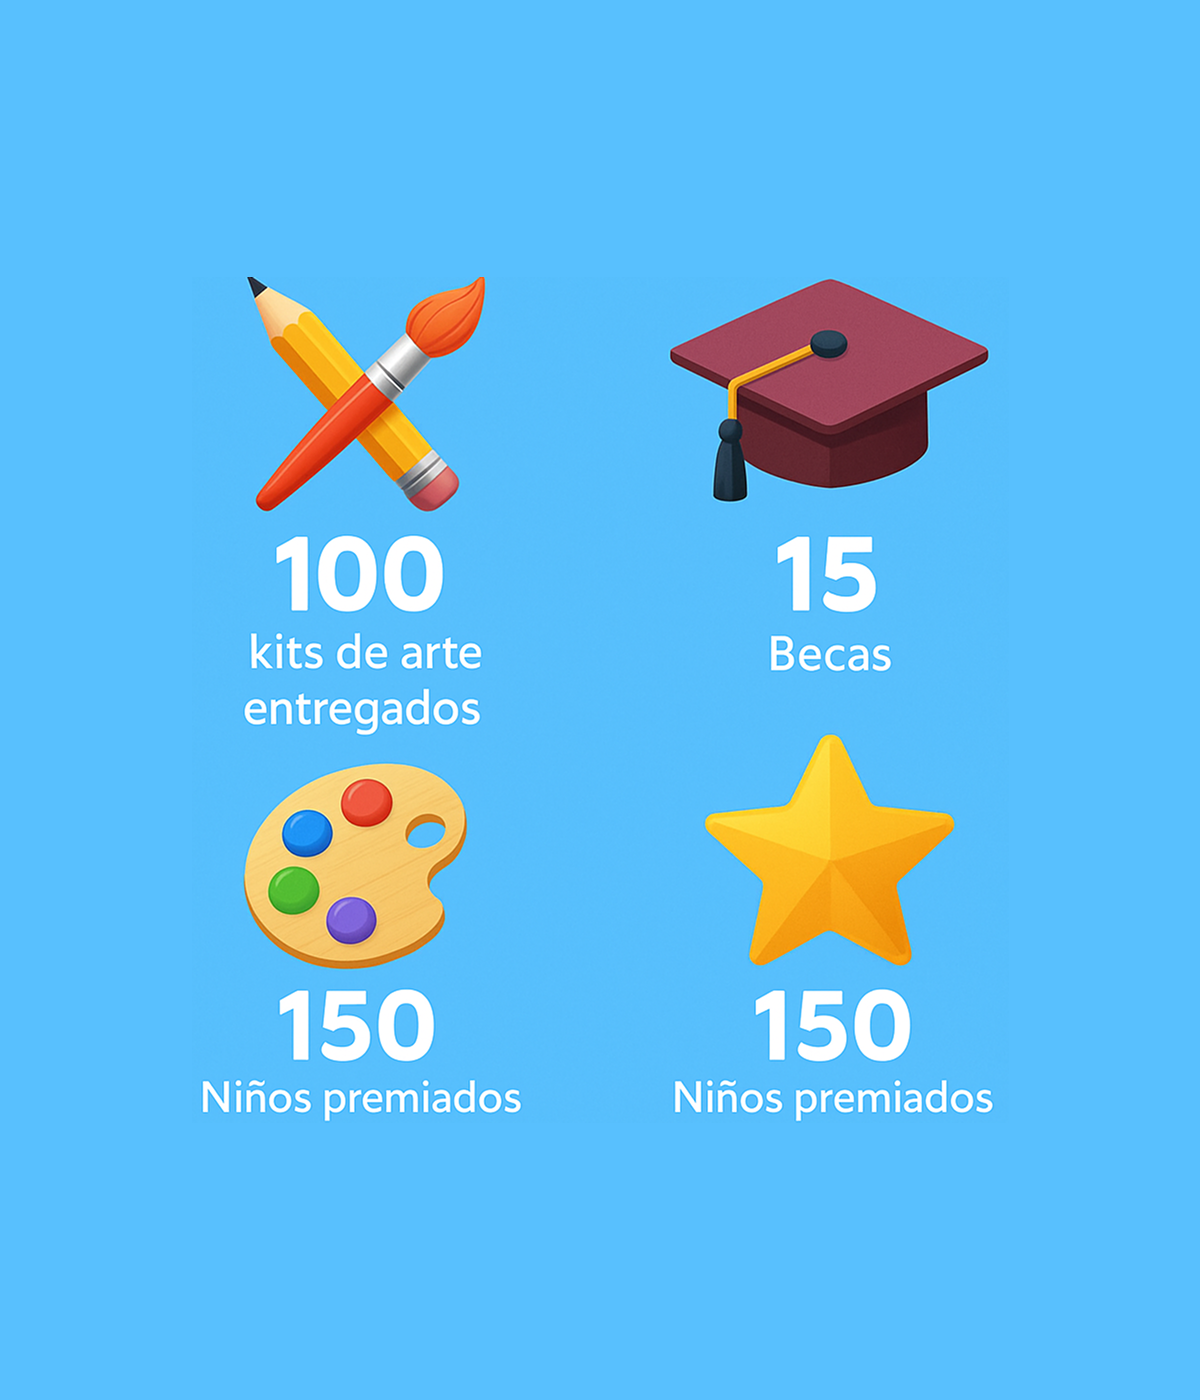
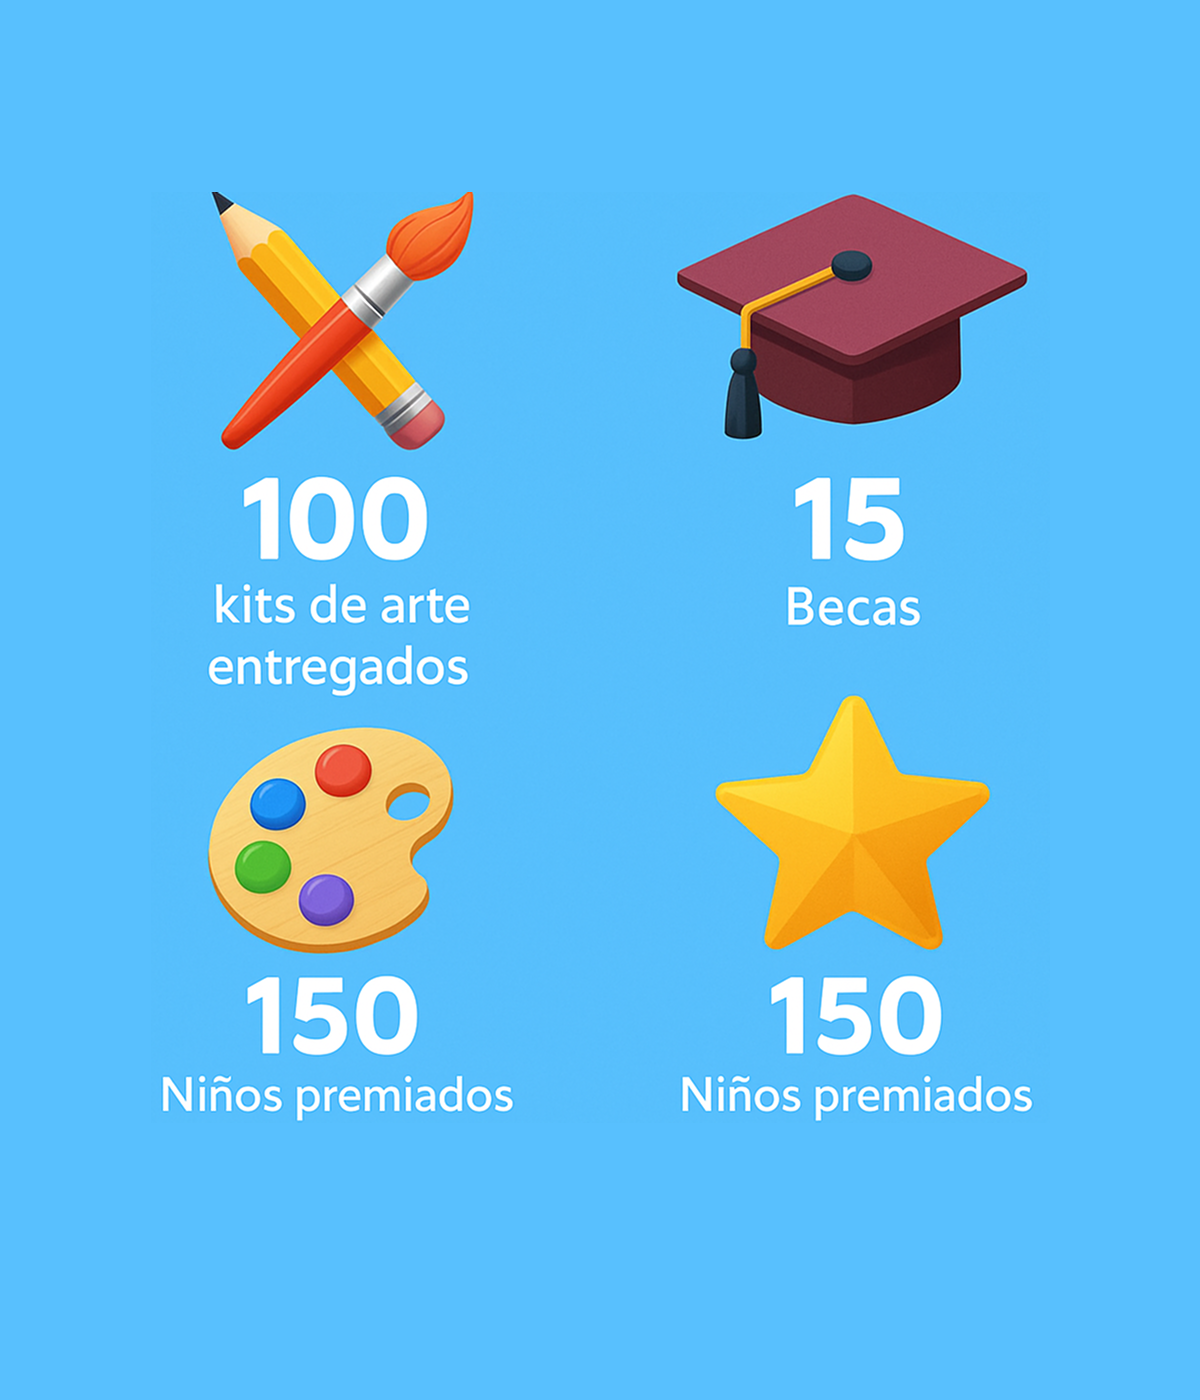
fixedBanner

Changed region(s): [[0.1233, 0.1229, 0.4317, 0.7986], [0.555, 0.1229, 0.8633, 0.7986]]

diff --git a/app/[lang]/about/page.tsx b/app/[lang]/about/page.tsx
@@ -7,36 +7,34 @@ export default async function About(
   const { lang } = await params;
   const dict = t(lang || "es");
 
-// Info del equipo (imagen, nombre, rol)
-const team = [
-  {
-    src: "/virginia.png",
-    name: "Virginia Barrow-Coreas",
-    role: "President",
-  },
-  {
-    src: "/benjamin.png",
-    name: "Benjamin Coreas",
-    role: "Vice President",
-  },
-  {
-    src: "/karen.png",
-    name: "Karen Diaz",
-    role: "Treasurer",
-  },
-  {
-    src: "/gaby.png",
-    name: "Gabriela Barrera",
-    role: "Secretary",
-  },
-  {
-    src: "/karla.png",
-    name: "Karla Umanzor",
-    role: "Director",
-  },
-];
-
-
+  // Info del equipo (imagen, nombre, rol)
+  const team = [
+    {
+      src: "/virginia.png",
+      name: "Virginia Barrow-Coreas",
+      role: "President",
+    },
+    {
+      src: "/benjamin.png",
+      name: "Benjamin Coreas",
+      role: "Vice President",
+    },
+    {
+      src: "/karen.png",
+      name: "Karen \nDiaz",
+      role: "Treasurer",
+    },
+    {
+      src: "/gaby.png",
+      name: "Gabriela Barrera",
+      role: "Secretary",
+    },
+    {
+      src: "/karla.png",
+      name: "Karla Umanzor",
+      role: "Director",
+    },
+  ];
 
   return (
     <section
@@ -57,42 +55,47 @@ const team = [
         </p>
 
         {/* Grilla de imágenes */}
-<div className="grid grid-cols-2 md:grid-cols-3 lg:grid-cols-5 gap-10 mt-12 text-center">
-  {team.map((member, i) => (
-    <div key={i} className="flex flex-col items-center">
-      
-      {/* Contenedor responsive */}
-      <div
-        className="
-          relative
-          w-40 h-40
-          sm:w-48 sm:h-48
-          md:w-56 md:h-56
-          lg:w-64 lg:h-64
-        "
-      >
-        <Image
-          src={member.src}
-          alt={member.name}
-          fill
-          className="object-contain rounded-2xl"
-          sizes="(max-width: 640px) 160px,
-                 (max-width: 768px) 192px,
-                 (max-width: 1024px) 224px,
-                 256px"
-        />
-      </div>
+        <div className="grid grid-cols-2 md:grid-cols-3 lg:grid-cols-5 gap-10 mt-12 text-center">
+          {team.map((member, i) => (
+            <div key={i} className="flex flex-col items-center">
+              {/* Contenedor responsive */}
+              <div
+                className="
+                  relative
+                  w-40 h-40
+                  sm:w-48 sm:h-48
+                  md:w-56 md:h-56
+                  lg:w-64 lg:h-64
+                "
+              >
+                <Image
+                  src={member.src}
+                  alt={member.name.replace("\n", " ")}
+                  fill
+                  className="object-contain rounded-2xl"
+                  sizes="(max-width: 640px) 160px,
+                         (max-width: 768px) 192px,
+                         (max-width: 1024px) 224px,
+                         256px"
+                />
+              </div>
 
-      <h3 className="mt-6 text-2xl font-semibold text-amWhite">
-        {member.name}
-      </h3>
-      <p className="text-lg text-amWhite/80">
-        {member.role}
-      </p>
-    </div>
-  ))}
-</div>
+              {/* ✅ Nombre en líneas (soporta \n) */}
+              <h3 className="mt-2 text-2xl font-semibold text-amWhite leading-tight">
+                {member.name.split("\n").map((line, idx) => (
+                  <span key={idx} className="block">
+                    {line}
+                  </span>
+                ))}
+              </h3>
 
+              {/* ✅ Rol más cerca */}
+              <p className="mt-0.5 text-lg text-amWhite/80">
+                {member.role}
+              </p>
+            </div>
+          ))}
+        </div>
       </div>
     </section>
   );

diff --git a/app/[lang]/page.tsx b/app/[lang]/page.tsx
@@ -108,10 +108,19 @@ export default async function Home(
         </div>
 
         {/* Fondo (derecha) */}
-        <div
-          className="min-h-[500px] md:min-h-0 bg-center bg-cover"
-          style={{ backgroundImage: "url('/datos.png')" }}
-        />
+<div
+  className="
+    w-full
+    min-h-[420px]
+    md:min-h-[500px]
+    bg-[#57C3F1]   /* celeste de relleno */
+    bg-center
+    bg-no-repeat
+    bg-contain
+  "
+  style={{ backgroundImage: "url('/datos.png')" }}
+/>
+
       </section>
 
 
